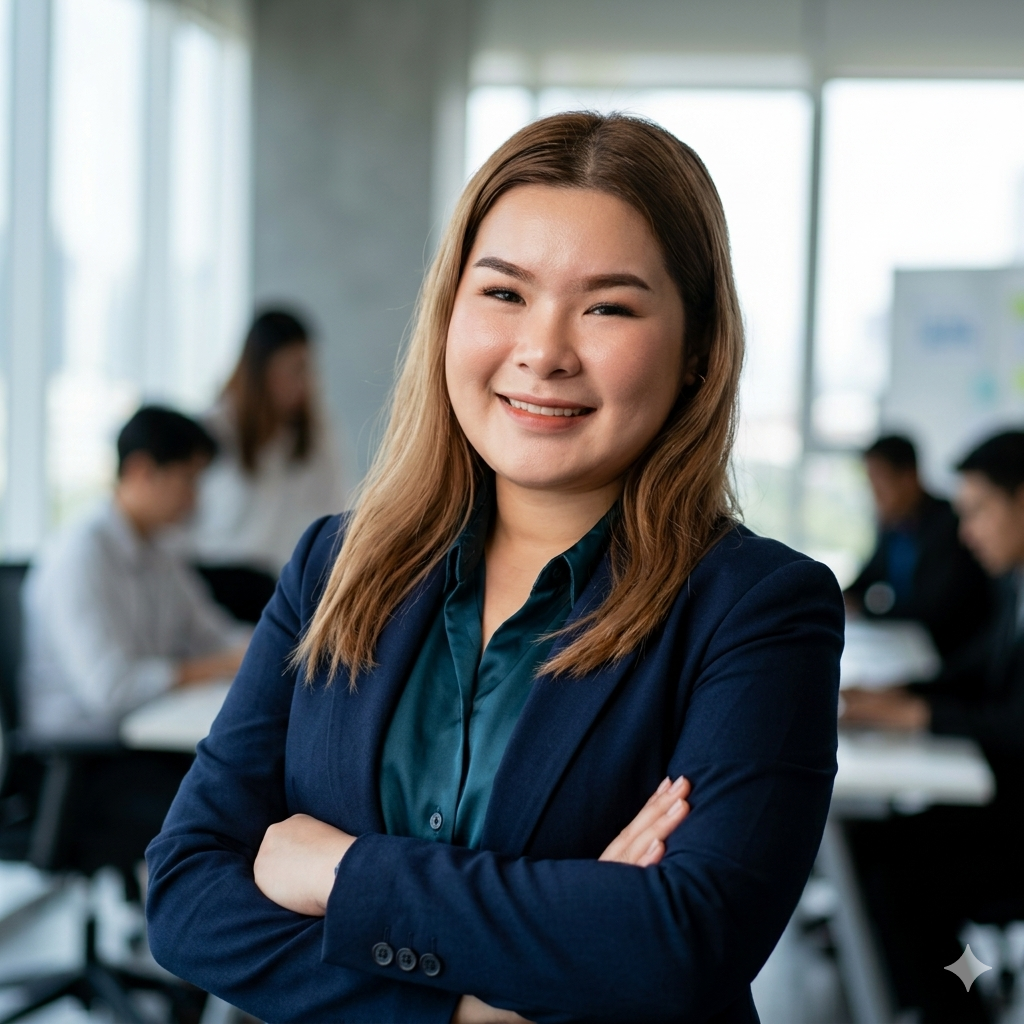
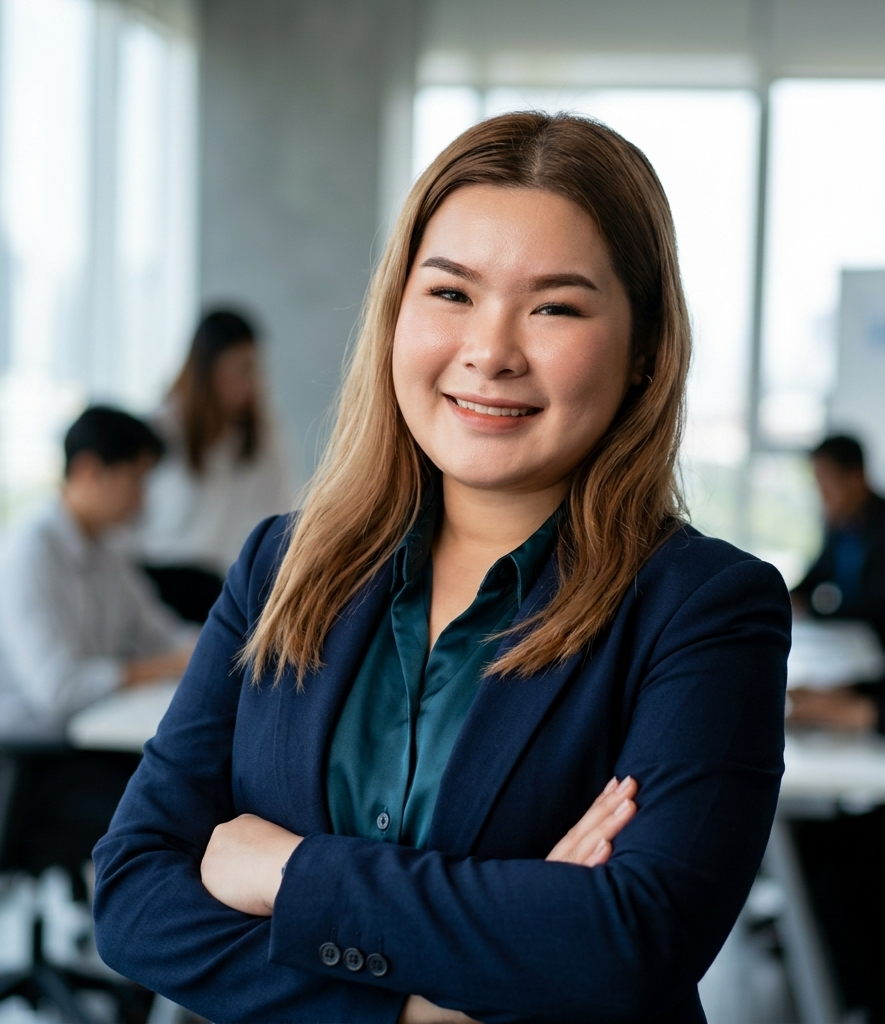
Minimal Changes

diff --git a/frontend/src/components/Team.js b/frontend/src/components/Team.js
@@ -29,7 +29,7 @@ function Team() {
       <div className="pointer-events-none absolute -right-12 bottom-6 h-56 w-56 rounded-full bg-[#d9e4f5]/45 blur-3xl" />
 
       <div className="relative z-10 mx-auto grid w-full max-w-7xl grid-cols-1 items-center gap-10 px-6 md:grid-cols-[1fr_1.15fr] md:gap-14">
-        <div className="max-w-xl">
+        <div className="mx-auto flex max-w-xl flex-col items-center text-center md:mx-0 md:items-start md:text-left">
           <span className="inline-flex items-center rounded-full border border-[#b8c7dc] bg-white px-4 py-2 text-xs font-semibold uppercase tracking-wide text-[#012E72] shadow-[0_6px_14px_rgba(1,46,114,0.15)]" style={{ fontFamily: FONT_BODY }}>
             People behind Paladin
           </span>

diff --git a/frontend/src/pages/About.js b/frontend/src/pages/About.js
@@ -166,7 +166,7 @@ export default function About() {
         </div>
       </section>
 
-      {/* Partners & Carriers Section */}
+      {/* Partners &  Carriers Section */}
       <Carriers />
 
       <MapLocation className="pt-8 mt-0" />
